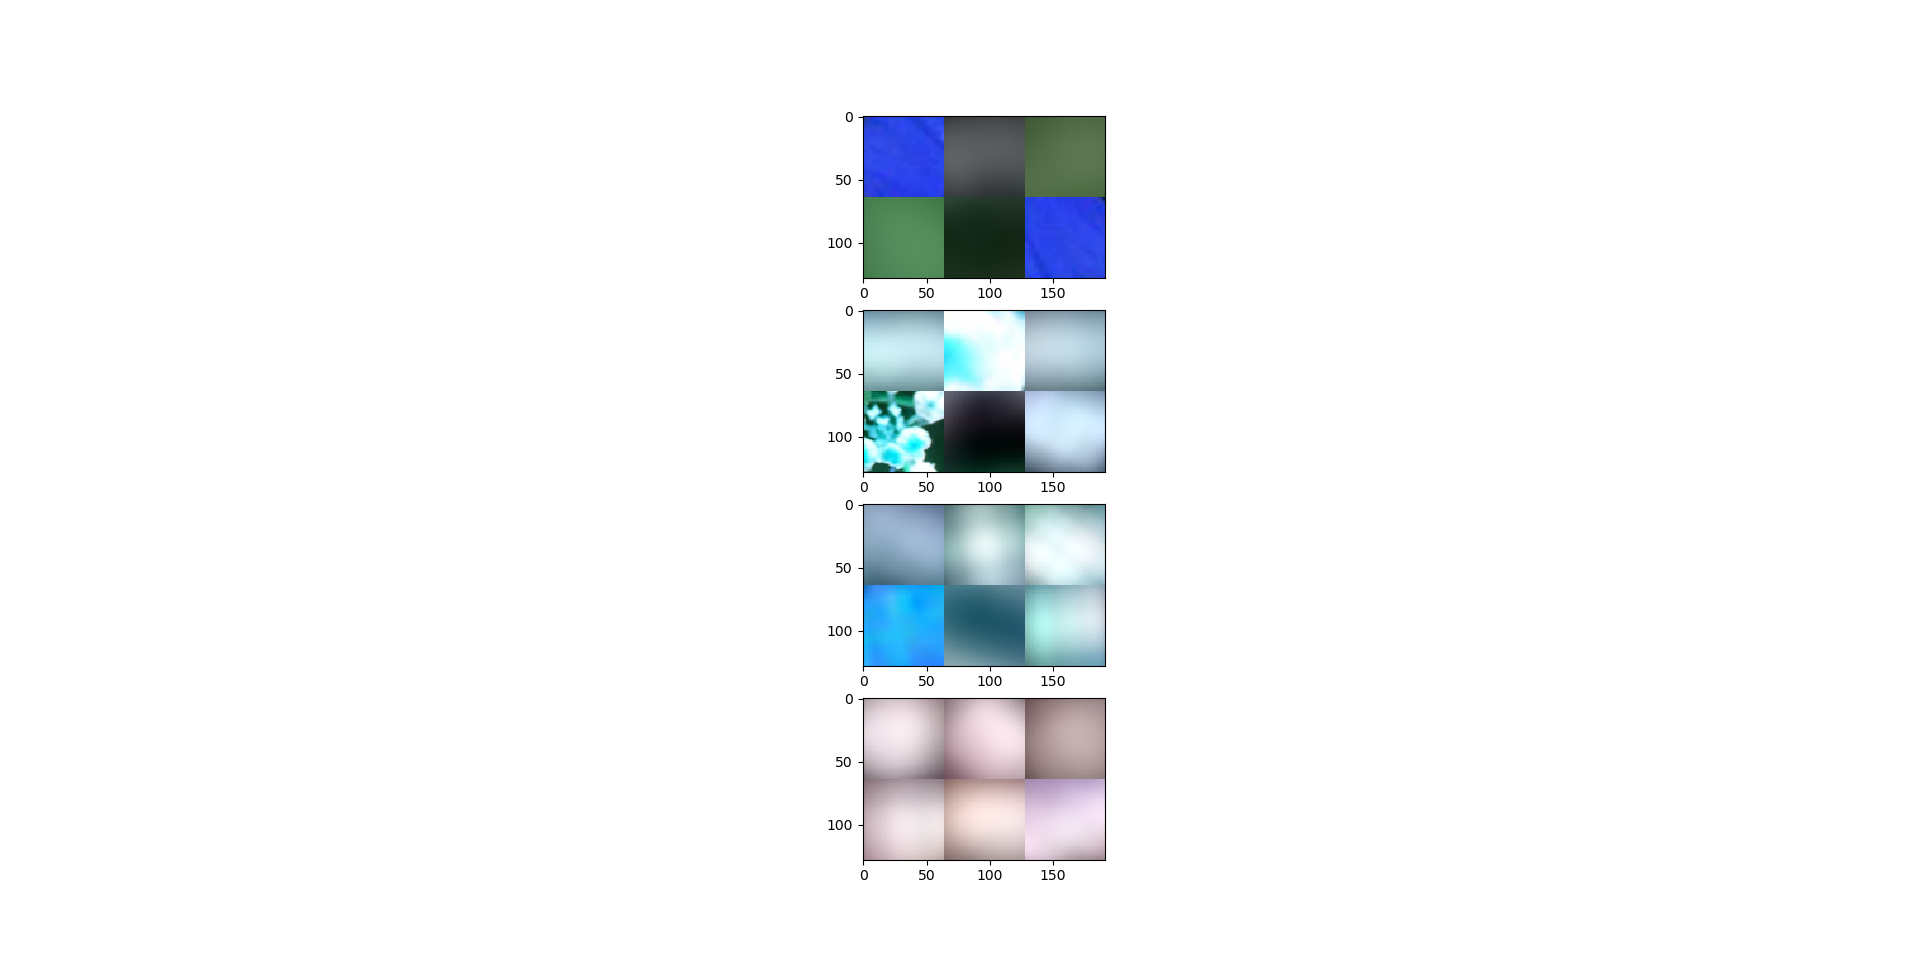
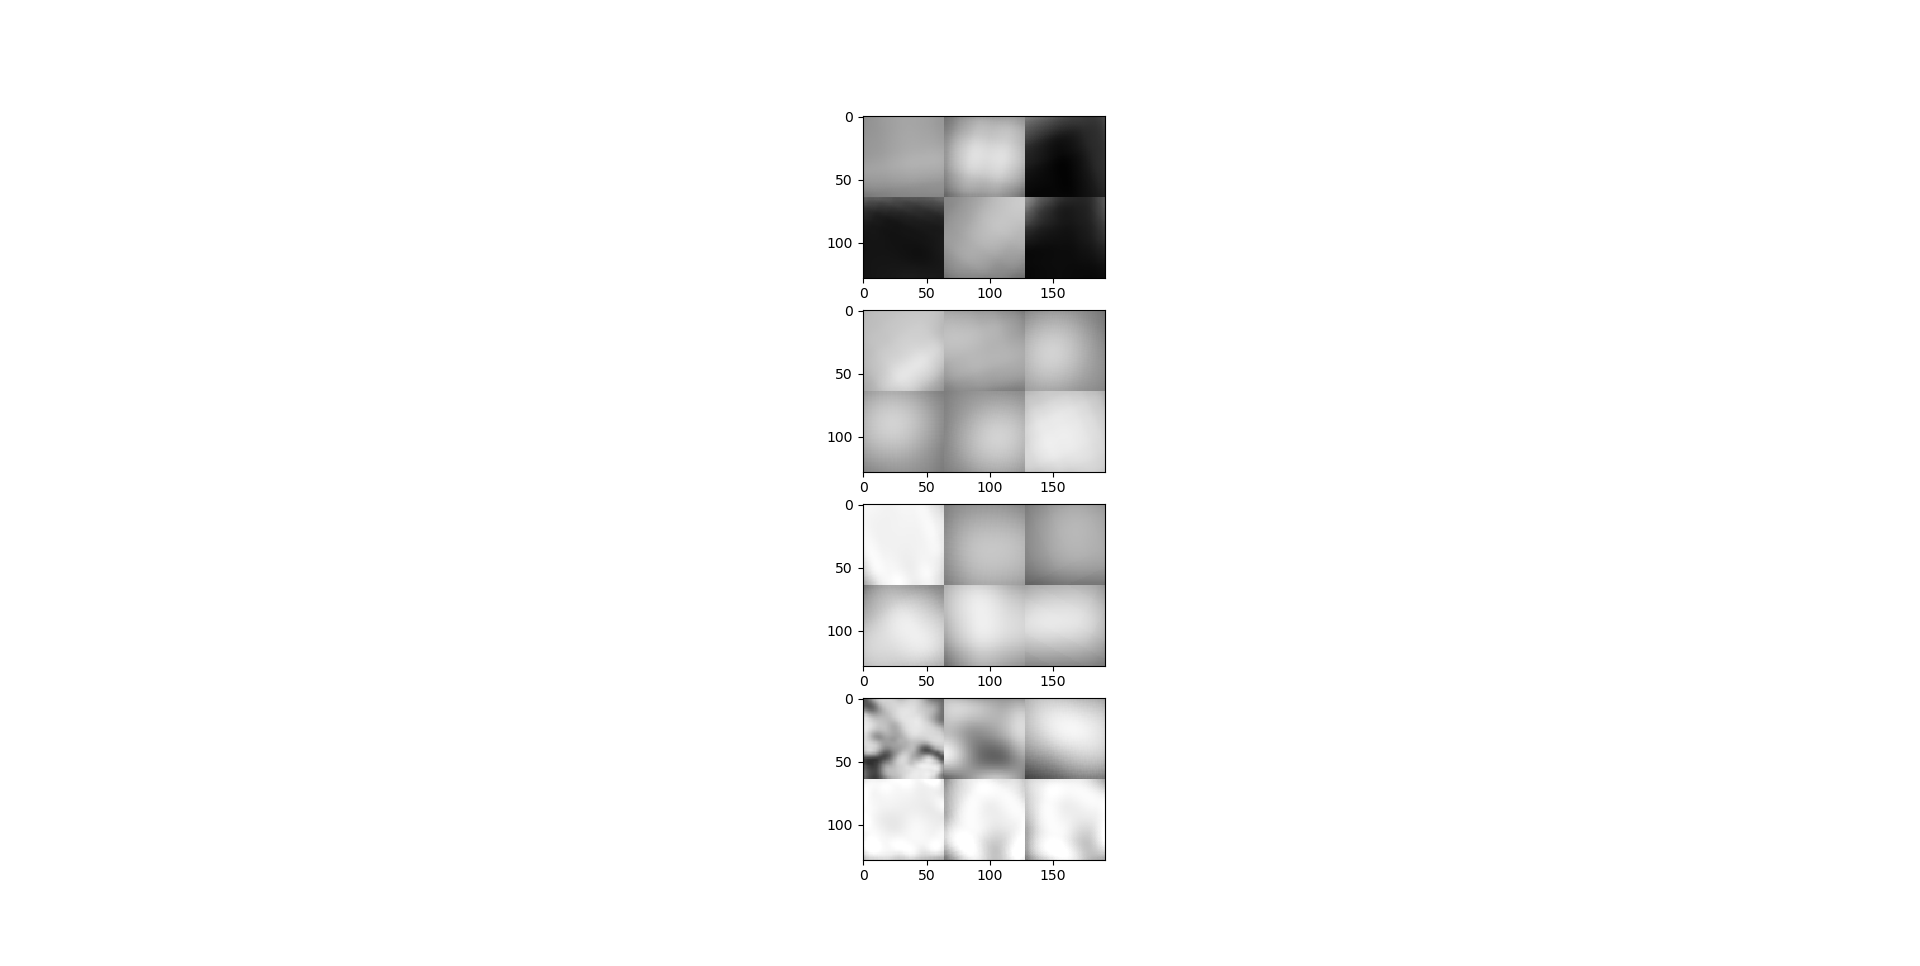
have the pr curve working. Just need to do the write up

Changed region(s): [[0.4375, 0.1242, 0.5938, 0.9006]]

diff --git a/k_dim_histogram.py b/k_dim_histogram.py
@@ -1,15 +1,79 @@
 from DataSet import DataSet
+import matplotlib.pyplot as plt
+import cv2
+import numpy as np
+from multiprocessing import Pool
+import os
+from sklearn.cluster import MiniBatchKMeans
+from sklearn.metrics import confusion_matrix
+from sklearn.svm import LinearSVC
+import image_operations as img_op
 
 ds = DataSet()
+data = ds.k_histogram
 
-images = []
+mbk = MiniBatchKMeans(n_clusters=200)
+
+
+def vector_quantization_train(features):
+    sift_features = np.empty((0, 128))
+    for f, label in features:
+        mbk.partial_fit(f)
+    return vector_quantization(features)
+
+
+def vector_quantization(features):
+    X = []
+    y = []
+    count = 0
+    for f, label in features:
+        count += len(f)
+        vq = mbk.predict(f)
+        vals, bins, _ = plt.hist(vq, bins=200, histtype='step')
+        X.append(vals)
+        y.append(label)
+    # plt.show()
+    plt.close()
+    return X, y, count
+
+
+def get_features(args):
+    i = args[0]
+    data = args[1]
+    img = ds.get_image(data[i][1])
+    label = data[i][0]
+    sift = cv2.xfeatures2d.SIFT_create(1000)
+    kp, des = sift.detectAndCompute(img, None)
+    return [des, label]
+
+
+pool = Pool(os.cpu_count())
+print("Training")
+features = pool.map(get_features, [(i, data)
+                                   for i in range(len(data))])
+
+X, y, count = vector_quantization_train(features)
+X = np.asarray(X).T
+y = np.asarray(y)
+plt.subplot(121)
+plt.imshow(X, cmap='jet', interpolation='nearest')
+
+# X_category = np.ones(X.shape)
+# y = np.asarray(y)
+# for i in range(1, 11):
+#     mask = y == i
+#     avg = np.mean(X[:, mask], axis=0)
+#     X_category[:, mask] = X_category[:, mask] * avg[:, np.newaxis]
 for i in range(1, 11):
-    j = 0
-    for img in ds.butterfly_train:
-        if img[0] == i:
-            images.append(img)
-            j += 1
-        if j == 10:
-            break
-import pdb
-pdb.set_trace()
+    mask = y == i
+    avg = np.around(np.mean(X[:, mask], axis=1))
+    # import pdb
+    # pdb.set_trace()
+    for j in range(21):
+        if i == 1:
+            X_cat = avg
+        else:
+            X_cat = np.vstack((X_cat, avg))
+plt.subplot(122)
+plt.imshow(X_cat.T, cmap='jet', interpolation='nearest')
+plt.show()

diff --git a/image_operations.py b/image_operations.py
@@ -93,18 +93,48 @@ def plot_confusion_matrix(cm, classes,
     # plt.show()
 
 
-def precision_recall(y_test, y_score):
-    average_precision = average_precision_score(y_test, y_score)
-    precision, recall, _ = precision_recall_curve(y_test, y_score)
+def precision_recall(y_test, confidences):
+    sortArgs = np.argsort(confidences)
+    scores = np.empty((0, 2))
+    for i in sortArgs:
+        scores = np.vstack((scores, [y_test[i], confidences[i]]))
+    pr = np.empty((0, 2))
+    for i in range(1, scores.shape[0]-1):
+        s0, s1 = np.split(scores, [i])
+        recall = get_recall(s0, s1)
+        precision = get_precision(s0, s1)
+        pr = np.vstack((pr, [recall, precision]))
+    plt.plot(pr[:, 0], pr[:, 1])
+    plt.title("PR curve for detection of birds and butterflies")
+    plt.xlabel("Recall")
+    plt.ylabel("Precision")
+    # average_precision = average_precision_score(y_test, y_score)
+    # precision, recall, _ = precision_recall_curve(y_test, y_score)
 
-    plt.step(recall, precision, color='b', alpha=0.2,
-             where='post')
-    plt.fill_between(recall, precision, step='post', alpha=0.2,
-                     color='b')
+    # plt.step(recall, precision, color='b', alpha=0.2,
+    #          where='post')
+    # plt.fill_between(recall, precision, step='post', alpha=0.2,
+    #                  color='b')
 
-    plt.xlabel('Recall')
-    plt.ylabel('Precision')
-    plt.ylim([0.0, 1.05])
-    plt.xlim([0.0, 1.0])
-    plt.title('2-class Precision-Recall curve: AP={0:0.2f}'.format(
-        average_precision))
+    # plt.xlabel('Recall')
+    # plt.ylabel('Precision')
+    # plt.ylim([0.0, 1.05])
+    # plt.xlim([0.0, 1.0])
+    # plt.title('2-class Precision-Recall curve: AP={0:0.2f}'.format(
+    #     average_precision))
+
+
+def get_precision(s0, s1):
+    tp = np.count_nonzero(s0[:, 0] == 0)
+    fp = s0.shape[0] - tp
+    try:
+        return tp / (tp + fp)
+    except:
+        import pdb
+        pdb.set_trace()
+
+
+def get_recall(s0, s1):
+    tp = np.count_nonzero(s0[:, 0] == 0)
+    fn = s1.shape[0] - np.count_nonzero(s1[:, 0] == 1)
+    return tp / (tp + fn)

diff --git a/similar_features.py b/similar_features.py
@@ -69,7 +69,7 @@ for i in np.random.randint(99, size=6):
             predict = mbk.predict([des])
             if predict == j:
                 patches.append(img_op.getPatchFor(
-                    kp, ds.get_image(data_train[i][1])))
+                    kp, cv2.cvtColor(ds.get_image(data_train[i][1]), cv2.COLOR_BGR2GRAY)))
     similar_patches.append(patches)
 images = []
 for patches in similar_patches:
@@ -84,5 +84,5 @@ for patches in similar_patches:
 print(len(images))
 for i in range(1, 5):
     plt.subplot(4, 1, i)
-    plt.imshow(images[i])
+    plt.imshow(cv2.cvtColor(images[i-1], cv2.COLOR_GRAY2RGB))
 plt.show()

diff --git a/DataSet.py b/DataSet.py
@@ -18,6 +18,14 @@ class DataSet:
 
         self.get_training_set()
         self.get_test_set()
+        self.get_k_histogram_set()
+
+    def get_k_histogram_set(self):
+        self.k_histogram = []
+        for i in range(1, 11):
+            for j in range(20):
+                self.k_histogram.append(
+                    [i, self.data["training_images"][str(i)][j]])
 
     def get_training_set(self):
         self.butterfly_train = []

diff --git a/detection.py b/detection.py
@@ -74,5 +74,7 @@ plt.subplot(121)
 img_op.plot_confusion_matrix(
     cm, classes=['butterflies', 'birds'], title='SIFT w/ VQ Confusion Matrix')
 plt.subplot(122)
-img_op.precision_recall(y, predictions)
+confidences = clf.decision_function(X)
+img_op.precision_recall(y, confidences)
+# img_op.precision_recall(y, predictions)
 plt.show()
